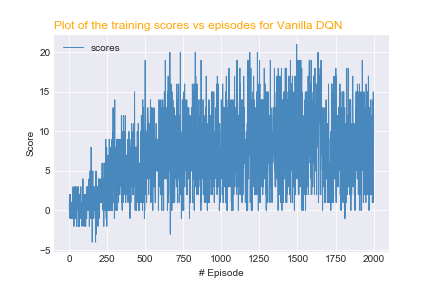
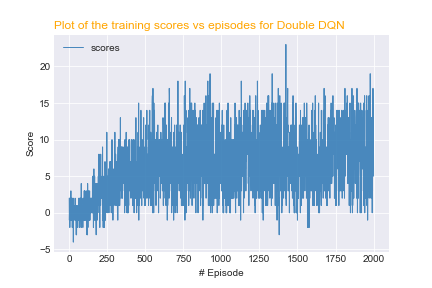
added double q learning graph

diff --git a/Readme.md b/Readme.md
@@ -76,7 +76,7 @@ Vanilla DQN model
 ![Vanilla](results/vanilla.png)
 
 Double DQN
-
+![Double Q](results/double_q_learning.png)
 Dueling DQN
 
 Dueling Double DQN
